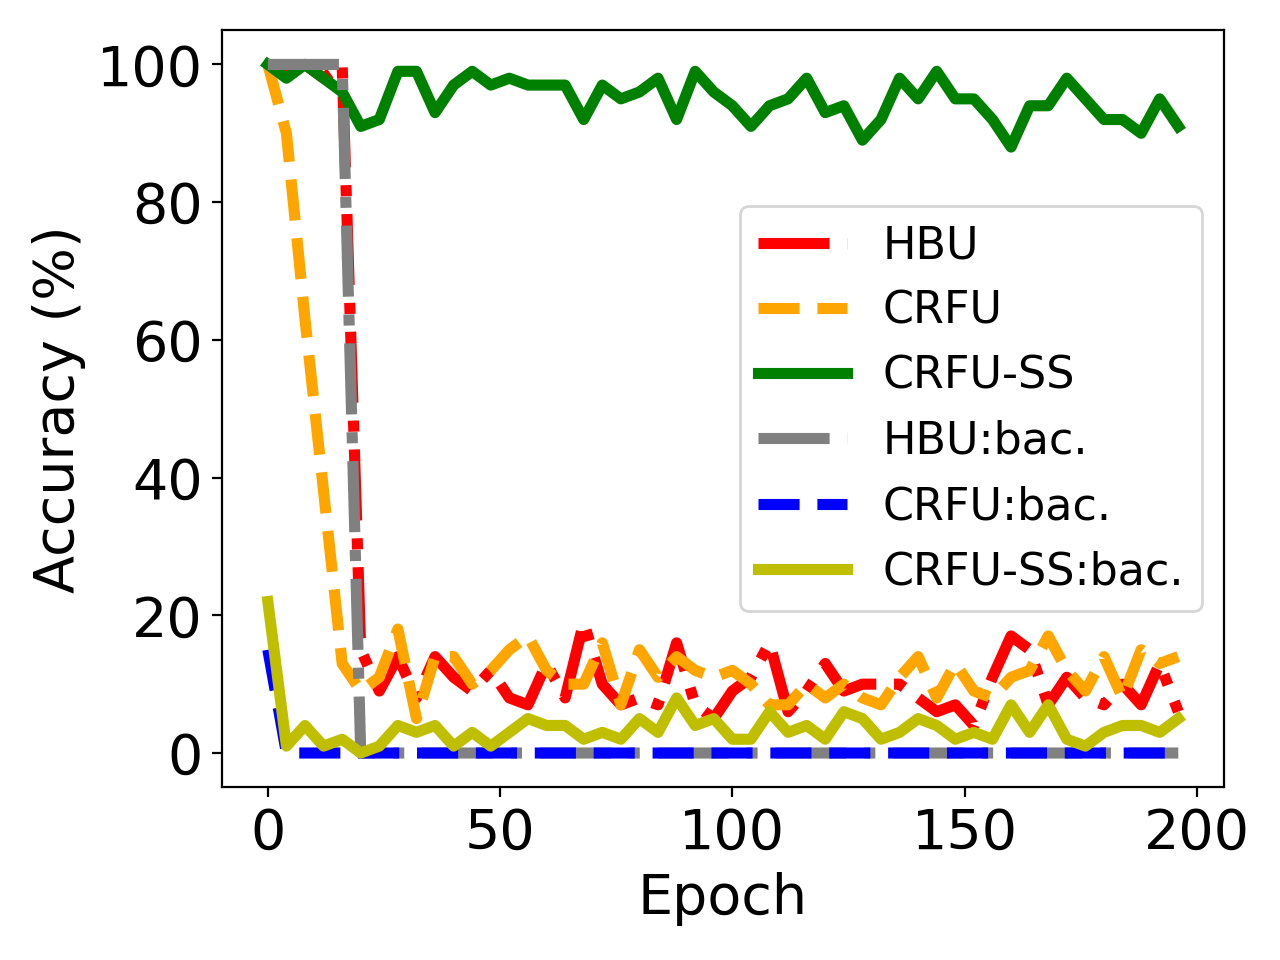
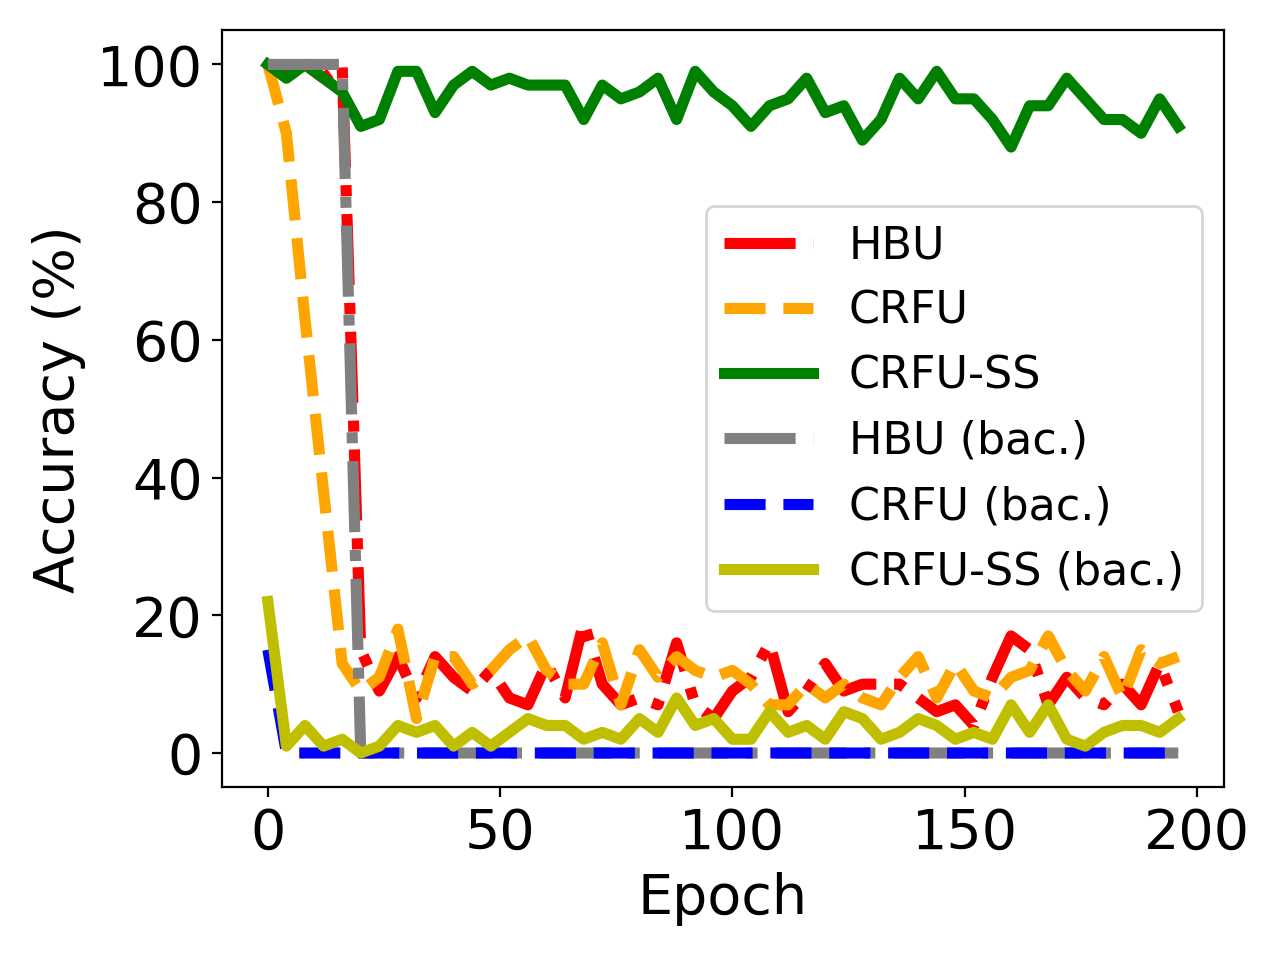
update

diff --git a/IBFU_Experiment_results/CIFAR10/client/Epoch_contrast/cifar_epoch_acc_10.py b/IBFU_Experiment_results/CIFAR10/client/Epoch_contrast/cifar_epoch_acc_10.py
@@ -59,9 +59,9 @@ plt.plot(x, y_vibu_ss_acc_list, color='g', linestyle='-',  label='CRFU-SS',linew
 # #plt.plot(x, y_fkl, color='g',  marker='+',  label='VRFL')
 
 
-plt.plot(x, y_hbu_b_acc_list, color='grey',  linestyle='-.',  label='HBU:bac.',linewidth=l_w, markersize=10)
-plt.plot(x, y_vbu_b_acc_list, color='b', linestyle='--',   label='CRFU:bac.',linewidth=l_w,  markersize=10)
-plt.plot(x, y_vibu_ss_b_acc_list, color='y', linestyle='-',  label='CRFU-SS:bac.',linewidth=l_w, markersize=10)
+plt.plot(x, y_hbu_b_acc_list, color='grey',  linestyle='-.',  label='HBU (bac.)',linewidth=l_w, markersize=10)
+plt.plot(x, y_vbu_b_acc_list, color='b', linestyle='--',   label='CRFU (bac.)',linewidth=l_w,  markersize=10)
+plt.plot(x, y_vibu_ss_b_acc_list, color='y', linestyle='-',  label='CRFU-SS (bac.)',linewidth=l_w, markersize=10)
 # #plt.plot(x, y_fkl, color='g',  marker='+',  label='VRFL')
 
 

diff --git a/IBFU_Experiment_results/MNIST/client/Epoch_contrast/mnist_epoch_acc_10.py b/IBFU_Experiment_results/MNIST/client/Epoch_contrast/mnist_epoch_acc_10.py
@@ -62,9 +62,9 @@ plt.plot(x, y_vibu_ss_acc_list, color='g', linestyle='-',  label='CRFU-SS',linew
 # #plt.plot(x, y_fkl, color='g',  marker='+',  label='VRFL')
 
 
-plt.plot(x, y_hbu_b_acc_list, color='grey',  linestyle='-.',  label='HBU:bac.',linewidth=l_w, markersize=10)
-plt.plot(x, y_vbu_b_acc_list, color='b', linestyle='--',   label='CRFU:bac.',linewidth=l_w,  markersize=10)
-plt.plot(x, y_vibu_ss_b_acc_list, color='y', linestyle='-',  label='CRFU-SS:bac.',linewidth=l_w, markersize=10)
+plt.plot(x, y_hbu_b_acc_list, color='grey',  linestyle='-.',  label='HBU (bac.)',linewidth=l_w, markersize=10)
+plt.plot(x, y_vbu_b_acc_list, color='b', linestyle='--',   label='CRFU (bac.)',linewidth=l_w,  markersize=10)
+plt.plot(x, y_vibu_ss_b_acc_list, color='y', linestyle='-',  label='CRFU-SS (bac.)',linewidth=l_w, markersize=10)
 # #plt.plot(x, y_fkl, color='g',  marker='+',  label='VRFL')
 
 
